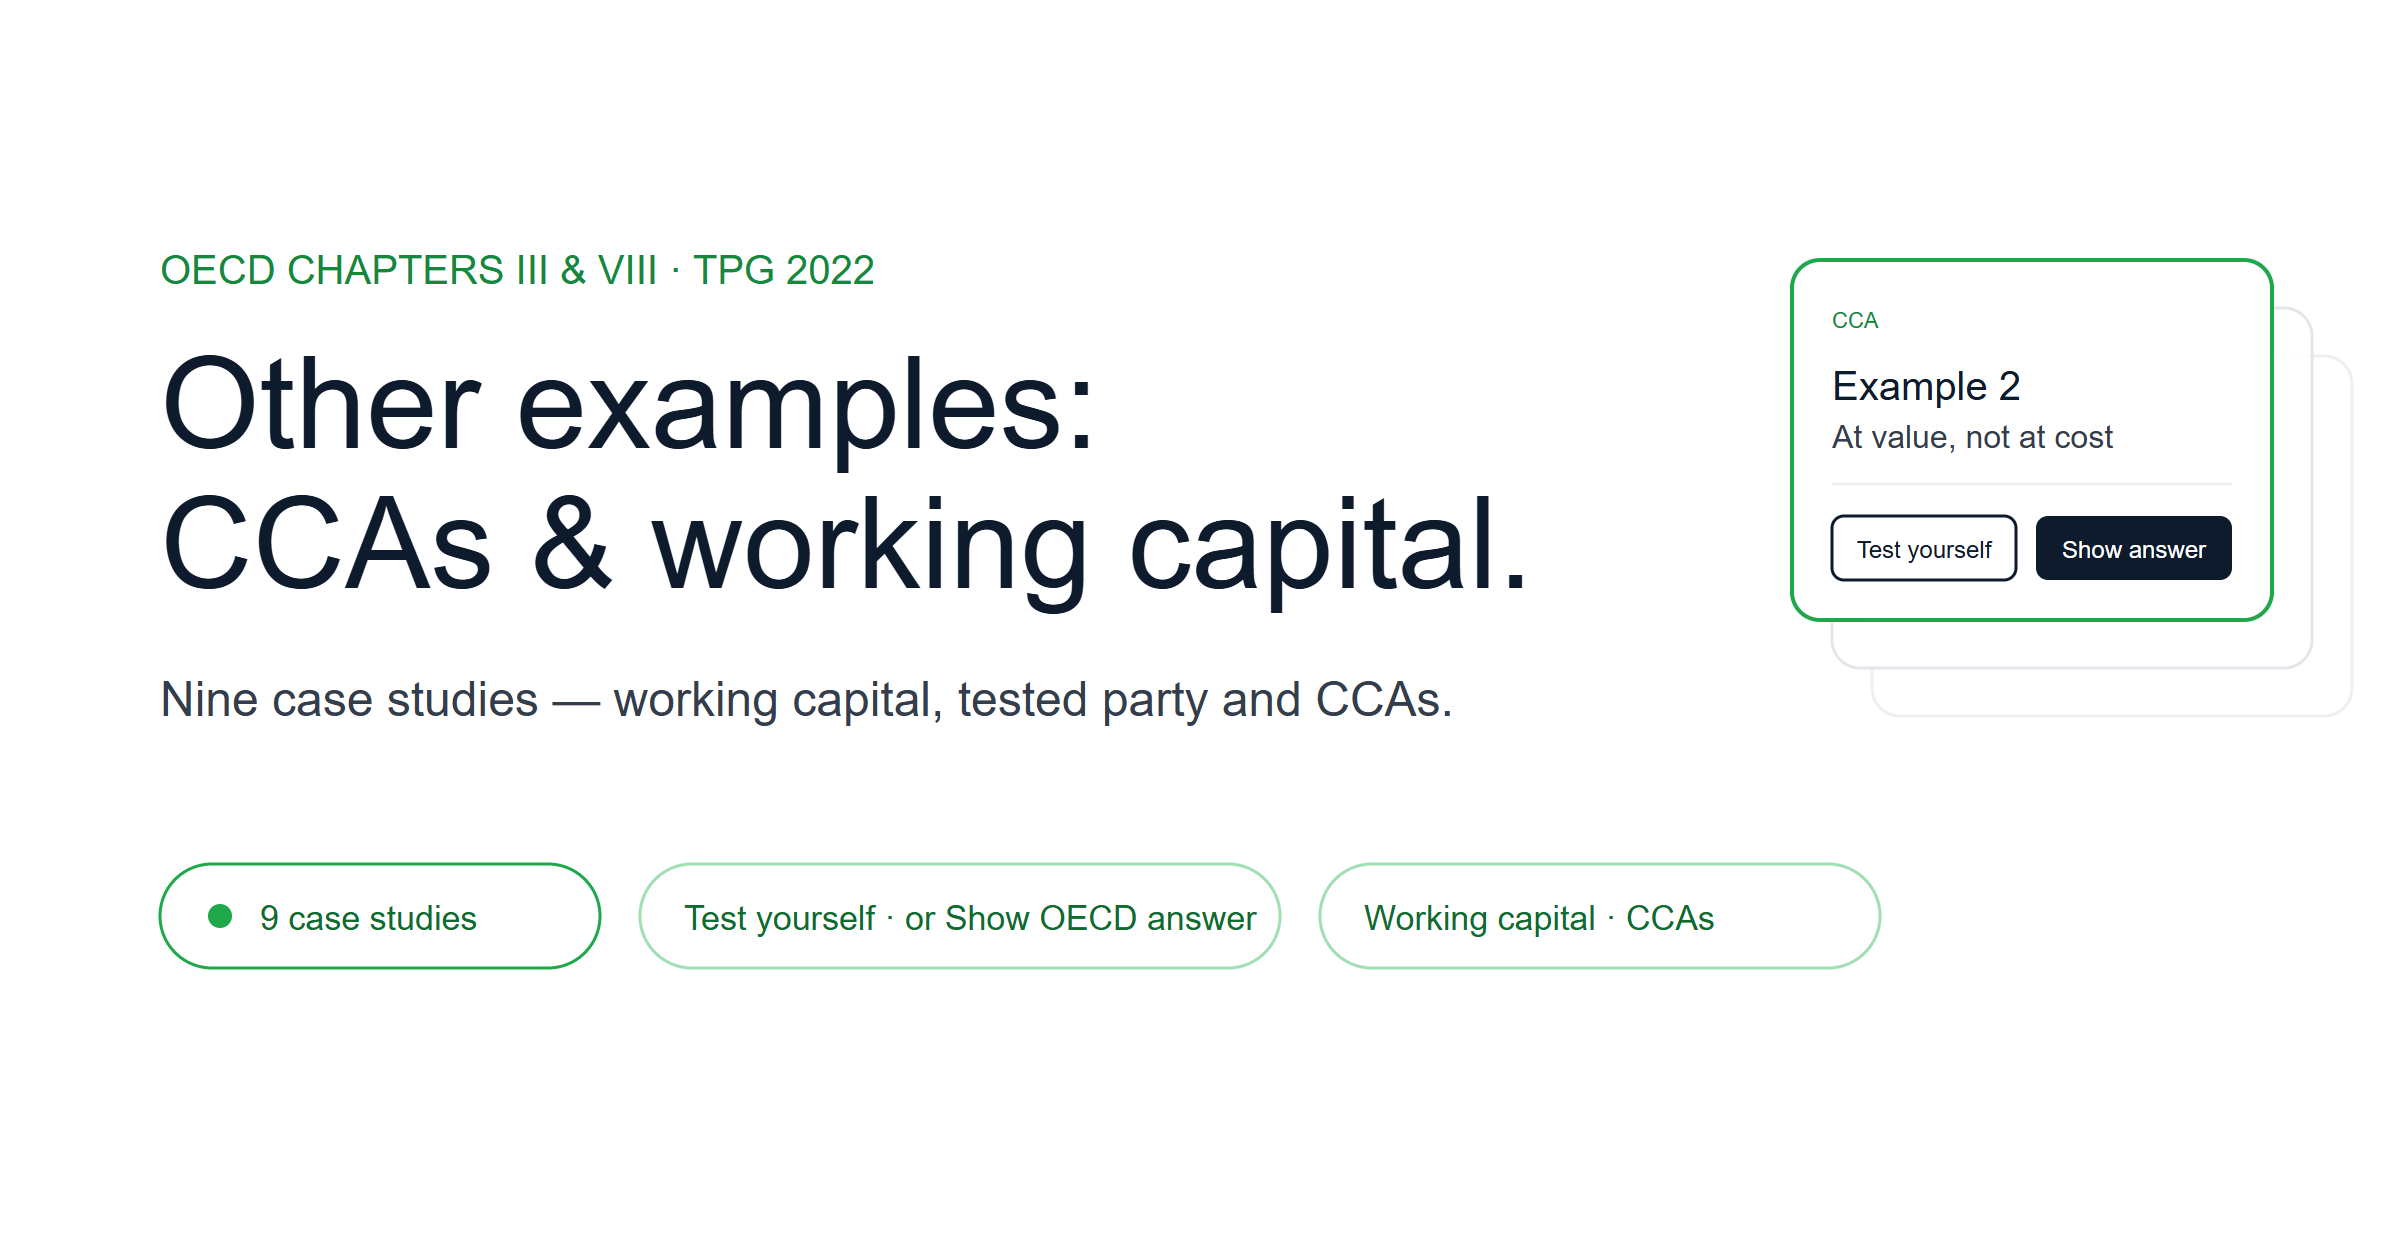
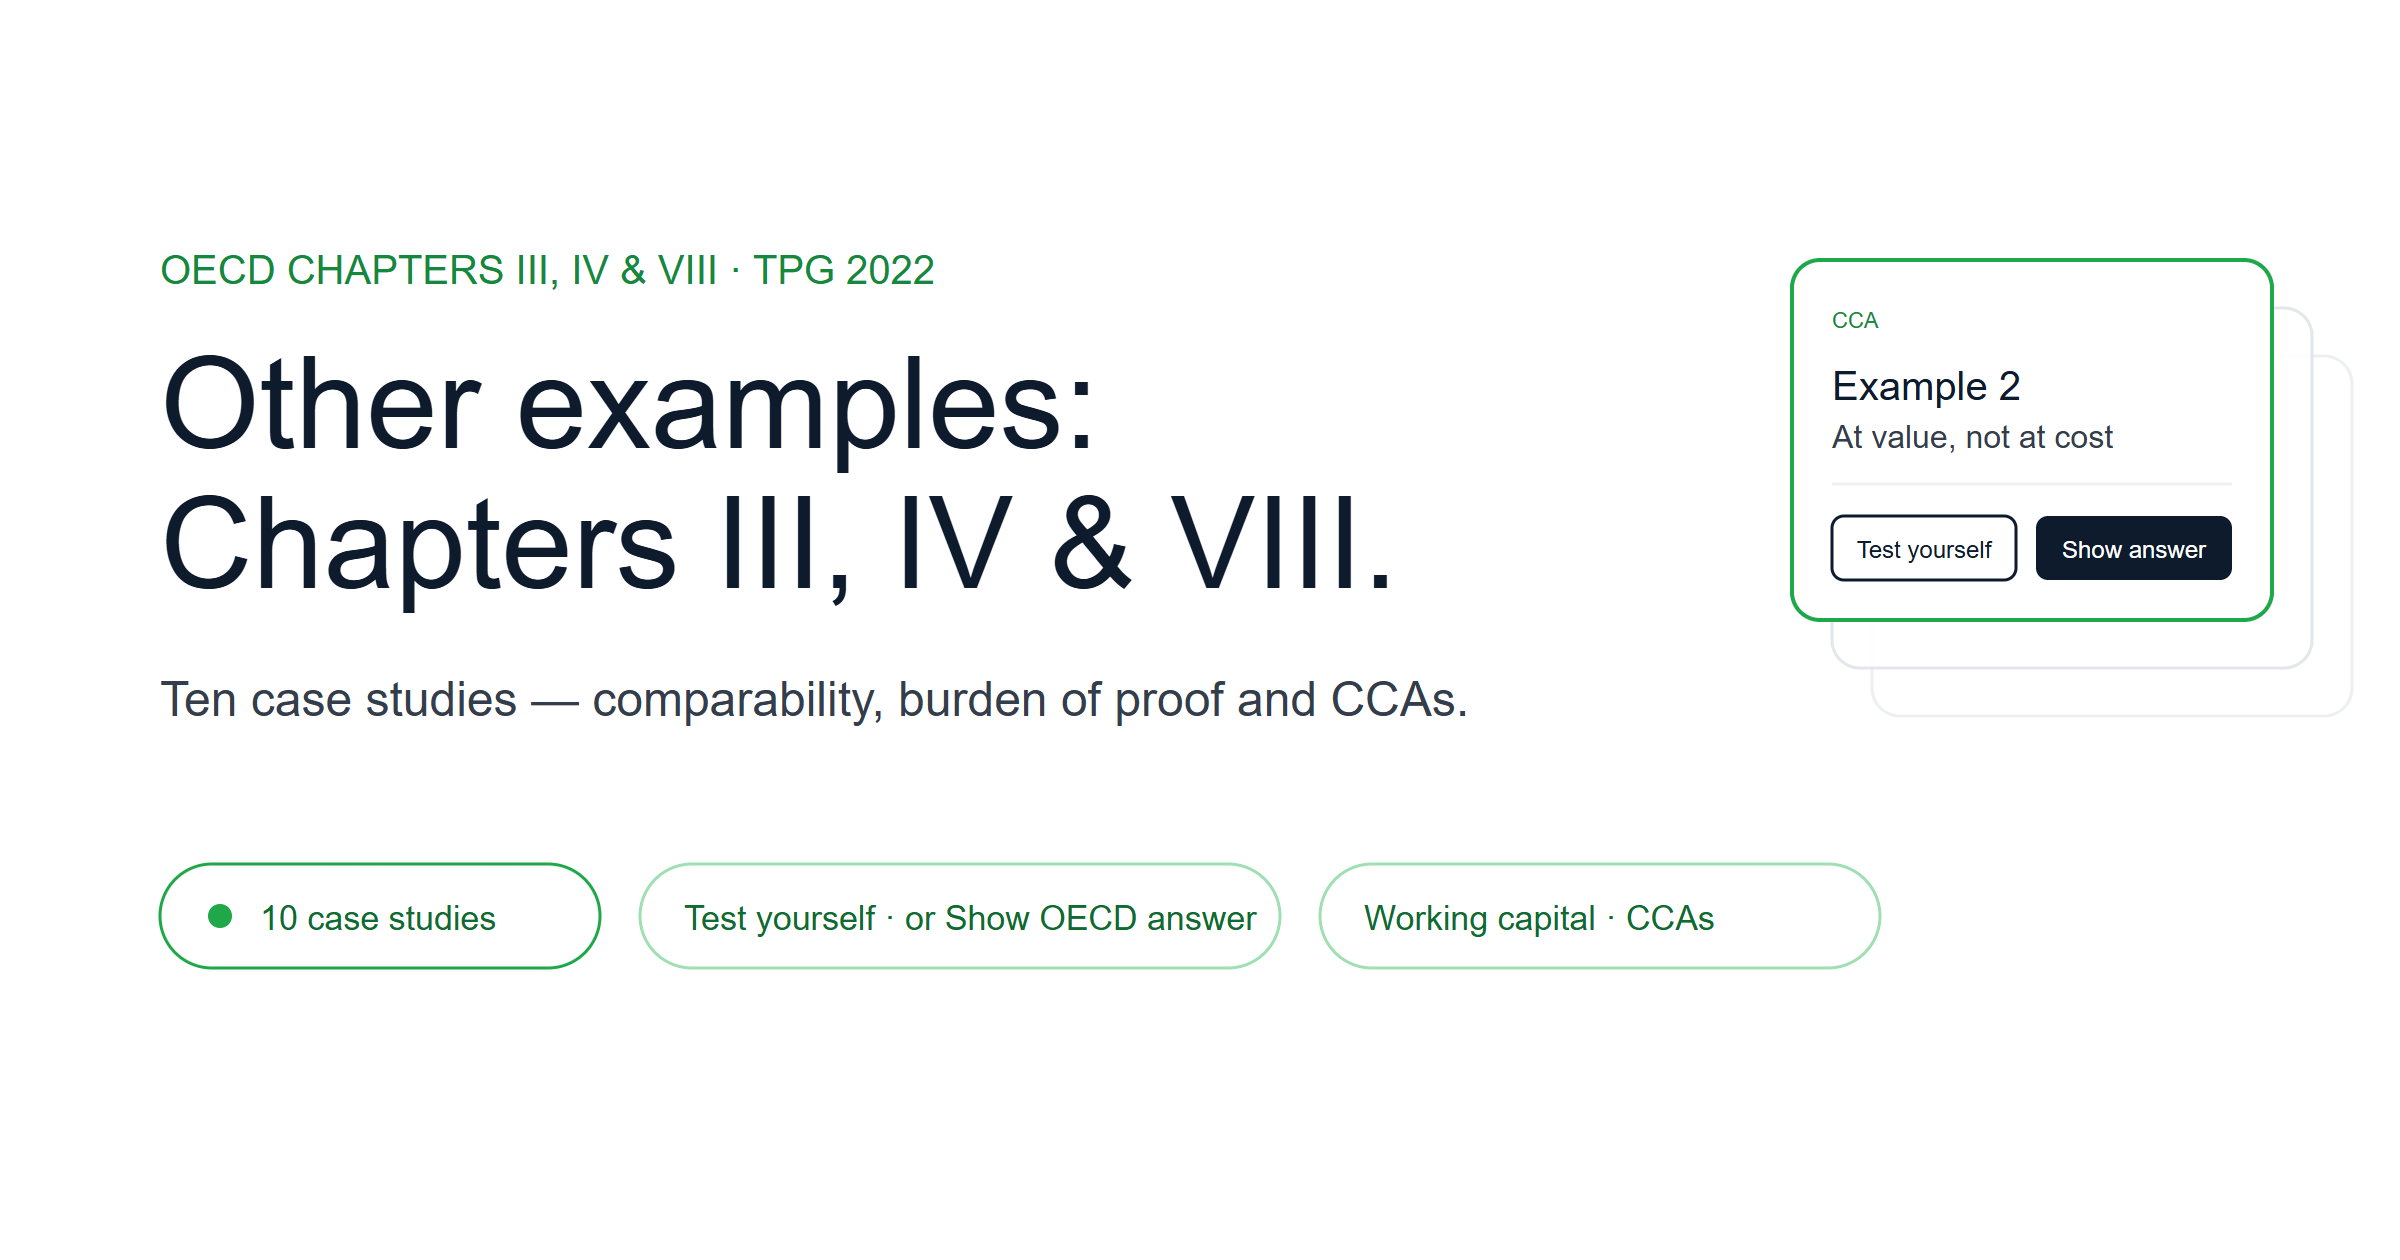
Page text and share images: counts for three examples added after review (Ch II 2.111, Ch IX 9.110, Ch IV 4.14-4.15)

diff --git a/OtherExamples/index.html b/OtherExamples/index.html
@@ -3,20 +3,20 @@
 <head>
 <meta charset="UTF-8">
 <meta name="viewport" content="width=device-width, initial-scale=1">
-<title>Other OECD examples — working capital, tested party + cost contribution arrangements | inRange</title>
-<meta name="description" content="A walkthrough of nine case studies from Chapters III and VIII of the OECD TP Guidelines (2022) and their Annexes: a working capital adjustment, the choice of tested party, and cost contribution arrangements.">
-<meta property="og:title" content="Other OECD examples — working capital, tested party + cost contribution arrangements">
-<meta property="og:description" content="Nine case studies from Chapters III and VIII of the OECD TP Guidelines (2022): working capital, tested party and CCAs.">
+<title>Other OECD examples — Chapters III, IV and VIII | inRange</title>
+<meta name="description" content="A walkthrough of ten case studies from Chapters III, IV and VIII of the OECD TP Guidelines (2022) and their Annexes: a working capital adjustment, the choice of tested party, the burden of proof, and cost contribution arrangements.">
+<meta property="og:title" content="Other OECD examples — Chapters III, IV and VIII">
+<meta property="og:description" content="Ten case studies from Chapters III, IV and VIII of the OECD TP Guidelines (2022): working capital, tested party, burden of proof and CCAs.">
 <meta property="og:type" content="website">
 <meta property="og:url" content="https://www.inrange.nl/OtherExamples/">
 <meta property="og:image" content="https://www.inrange.nl/OtherExamples/og-image.png">
 <meta property="og:image:width" content="2400">
 <meta property="og:image:height" content="1260">
-<meta property="og:image:alt" content="Other OECD examples — Interactive walkthrough of comparability and cost-contribution-arrangement examples. An inRange page.">
+<meta property="og:image:alt" content="Other OECD examples — Interactive walkthrough of examples from Chapters III, IV and VIII. An inRange page.">
 <meta name="twitter:card" content="summary_large_image">
 <meta name="twitter:image" content="https://www.inrange.nl/OtherExamples/og-image.png">
-<meta name="twitter:title" content="Other OECD examples — working capital, tested party + cost contribution arrangements">
-<meta name="twitter:description" content="Nine case studies from Chapters III and VIII of the OECD TP Guidelines (2022): working capital, tested party and CCAs.">
+<meta name="twitter:title" content="Other OECD examples — Chapters III, IV and VIII">
+<meta name="twitter:description" content="Ten case studies from Chapters III, IV and VIII of the OECD TP Guidelines (2022): working capital, tested party, burden of proof and CCAs.">
 <link rel="stylesheet" href="../colors_and_type.css">
 <link rel="preconnect" href="https://fonts.googleapis.com">
 <link rel="preconnect" href="https://fonts.gstatic.com" crossorigin>
@@ -684,9 +684,9 @@ a.toc__group-label:hover{color:var(--brand-green-700)}
     </details>
 
     <section class="hero" id="intro">
-      <span class="eyebrow">OECD Chapters III &amp; VIII · TPG 2022</span>
+      <span class="eyebrow">OECD Chapters III, IV &amp; VIII · TPG 2022</span>
       <h1>Other examples.</h1>
-      <p class="lead">A walkthrough of nine case studies from Chapter III (a working capital adjustment and the choice of tested party) and Chapter VIII (cost contribution arrangements) of the OECD Transfer Pricing Guidelines (2022 edition), including their Annexes.</p>
+      <p class="lead">A walkthrough of ten case studies from Chapter III (a working capital adjustment and the choice of tested party), Chapter IV (the burden of proof) and Chapter VIII (cost contribution arrangements) of the OECD Transfer Pricing Guidelines (2022 edition), including their Annexes.</p>
 
       <div class="disclaimer">
         <strong>Teaching summary.</strong> This walkthrough is a paraphrase of the OECD examples for learning purposes. For any binding interpretation, consult the OECD Transfer Pricing Guidelines themselves.
@@ -748,7 +748,7 @@ a.toc__group-label:hover{color:var(--brand-green-700)}
 </a>
 
     <footer class="page-footer">
-      <p>This walkthrough is based on Chapter III and its Annex (Example of a working capital adjustment) and on Chapter VIII and its Annex (Examples to illustrate the guidance on cost contribution arrangements) of the OECD Transfer Pricing Guidelines for Multinational Enterprises and Tax Administrations (2022 edition).<br>Source: <a href="https://www.oecd.org/en/publications/oecd-transfer-pricing-guidelines-for-multinational-enterprises-and-tax-administrations-2022_0e655865-en.html" target="_blank" rel="noreferrer">OECD Transfer Pricing Guidelines (2022)</a>.</p>
+      <p>This walkthrough is based on Chapter III and its Annex (Example of a working capital adjustment), on Chapter IV, and on Chapter VIII and its Annex (Examples to illustrate the guidance on cost contribution arrangements) of the OECD Transfer Pricing Guidelines for Multinational Enterprises and Tax Administrations (2022 edition).<br>Source: <a href="https://www.oecd.org/en/publications/oecd-transfer-pricing-guidelines-for-multinational-enterprises-and-tax-administrations-2022_0e655865-en.html" target="_blank" rel="noreferrer">OECD Transfer Pricing Guidelines (2022)</a>.</p>
     </footer>
   </main>
 </div>
@@ -1418,8 +1418,8 @@ a.toc__group-label:hover{color:var(--brand-green-700)}
   function setupShare() {
     const toast = document.getElementById("toast");
     const SHARE_URL = "https://www.inrange.nl/OtherExamples";
-    const SHARE_TITLE = "Other OECD examples — working capital, tested party + cost contribution arrangements";
-    const SHARE_TEXT = "Nine case studies from Chapters III and VIII of the OECD TP Guidelines (2022): working capital, tested party and cost contribution arrangements.";
+    const SHARE_TITLE = "Other OECD examples — Chapters III, IV and VIII";
+    const SHARE_TEXT = "Ten case studies from Chapters III, IV and VIII of the OECD TP Guidelines (2022): working capital, tested party, burden of proof and cost contribution arrangements.";
 
     function showToast(message) {
       if (!toast) return;

diff --git a/Chapter9/index.html b/Chapter9/index.html
@@ -3,10 +3,10 @@
 <head>
 <meta charset="UTF-8">
 <meta name="viewport" content="width=device-width, initial-scale=1">
-<title>OECD Chapter IX — business restructurings: 16 examples | inRange</title>
-<meta name="description" content="An interactive walkthrough of 16 examples on Chapter IX of the OECD Transfer Pricing Guidelines (2022): eight worked examples from the text and eight inRange illustrations distilled from it, covering conversions, indemnification, inventory and brand transfers, outsourcing and location savings.">
-<meta property="og:title" content="OECD Chapter IX — business restructurings: 16 examples">
-<meta property="og:description" content="16 case studies on Chapter IX of the OECD TP Guidelines (2022): eight OECD examples and eight inRange illustrations.">
+<title>OECD Chapter IX — business restructurings: 17 examples | inRange</title>
+<meta name="description" content="An interactive walkthrough of 17 examples on Chapter IX of the OECD Transfer Pricing Guidelines (2022): nine worked examples from the text and eight inRange illustrations distilled from it, covering conversions, indemnification, inventory and brand transfers, outsourcing and location savings.">
+<meta property="og:title" content="OECD Chapter IX — business restructurings: 17 examples">
+<meta property="og:description" content="17 case studies on Chapter IX of the OECD TP Guidelines (2022): nine OECD examples and eight inRange illustrations.">
 <meta property="og:type" content="website">
 <meta property="og:url" content="https://www.inrange.nl/Chapter9/">
 <meta property="og:image" content="https://www.inrange.nl/Chapter9/og-image.png">
@@ -15,8 +15,8 @@
 <meta property="og:image:alt" content="OECD Chapter IX — Interactive walkthrough of business-restructuring examples. An inRange page.">
 <meta name="twitter:card" content="summary_large_image">
 <meta name="twitter:image" content="https://www.inrange.nl/Chapter9/og-image.png">
-<meta name="twitter:title" content="OECD Chapter IX — business restructurings: 16 examples">
-<meta name="twitter:description" content="16 case studies on Chapter IX of the OECD TP Guidelines (2022): eight OECD examples and eight inRange illustrations.">
+<meta name="twitter:title" content="OECD Chapter IX — business restructurings: 17 examples">
+<meta name="twitter:description" content="17 case studies on Chapter IX of the OECD TP Guidelines (2022): nine OECD examples and eight inRange illustrations.">
 <link rel="stylesheet" href="../colors_and_type.css">
 <link rel="preconnect" href="https://fonts.googleapis.com">
 <link rel="preconnect" href="https://fonts.gstatic.com" crossorigin>
@@ -697,7 +697,7 @@ a.toc__group-label:hover{color:var(--brand-green-700)}
     <section class="hero" id="intro">
       <span class="eyebrow">OECD Chapter IX · TPG 2022</span>
       <h1>Business restructurings.</h1>
-      <p class="lead">A walkthrough of 16 examples on Chapter IX of the OECD Transfer Pricing Guidelines (2022 edition). Eight are worked examples set out in the text of the chapter, marked “OECD example”. Eight are inRange illustrations distilled from its prose and anchored to specific paragraphs, marked “inRange illustration”.</p>
+      <p class="lead">A walkthrough of 17 examples on Chapter IX of the OECD Transfer Pricing Guidelines (2022 edition). Nine are worked examples set out in the text of the chapter, marked “OECD example”. Eight are inRange illustrations distilled from its prose and anchored to specific paragraphs, marked “inRange illustration”.</p>
 
       <div class="disclaimer">
         <strong>Teaching summary.</strong> These examples are authorial paraphrases that distil specific paragraphs of Chapter IX for learning purposes. For any binding interpretation, consult the OECD Transfer Pricing Guidelines themselves.
@@ -1451,8 +1451,8 @@ a.toc__group-label:hover{color:var(--brand-green-700)}
   function setupShare() {
     const toast = document.getElementById("toast");
     const SHARE_URL = "https://www.inrange.nl/Chapter9";
-    const SHARE_TITLE = "OECD Chapter IX — Business restructurings: 16 examples";
-    const SHARE_TEXT = "16 case studies on Chapter IX of the OECD Transfer Pricing Guidelines (2022): recognition, risk reallocation, indemnification, location savings and more.";
+    const SHARE_TITLE = "OECD Chapter IX — Business restructurings: 17 examples";
+    const SHARE_TEXT = "17 case studies on Chapter IX of the OECD Transfer Pricing Guidelines (2022): recognition, risk reallocation, indemnification, location savings and more.";
 
     function showToast(message) {
       if (!toast) return;

diff --git a/Chapter2/index.html b/Chapter2/index.html
@@ -3,10 +3,10 @@
 <head>
 <meta charset="UTF-8">
 <meta name="viewport" content="width=device-width, initial-scale=1">
-<title>OECD Chapter II — transfer pricing methods: 14 examples | inRange</title>
-<meta name="description" content="An interactive walkthrough of 14 examples from Chapter II of the OECD Transfer Pricing Guidelines (2022) and its Annex I: the CUP, resale price, cost plus and transactional net margin methods, and gross versus net profit indicators.">
-<meta property="og:title" content="OECD Chapter II — transfer pricing methods: 14 examples">
-<meta property="og:description" content="14 examples from Chapter II of the OECD TP Guidelines (2022): CUP, resale price, cost plus, TNMM and gross versus net margins.">
+<title>OECD Chapter II — transfer pricing methods: 15 examples | inRange</title>
+<meta name="description" content="An interactive walkthrough of 15 examples from Chapter II of the OECD Transfer Pricing Guidelines (2022) and its Annex I: the CUP, resale price, cost plus and transactional net margin methods, and gross versus net profit indicators.">
+<meta property="og:title" content="OECD Chapter II — transfer pricing methods: 15 examples">
+<meta property="og:description" content="15 examples from Chapter II of the OECD TP Guidelines (2022): CUP, resale price, cost plus, TNMM and gross versus net margins.">
 <meta property="og:type" content="website">
 <meta property="og:url" content="https://www.inrange.nl/Chapter2/">
 <meta property="og:image" content="https://www.inrange.nl/Chapter2/og-image.png">
@@ -15,8 +15,8 @@
 <meta property="og:image:alt" content="OECD Chapter II — Interactive walkthrough of the transfer pricing method examples. An inRange page.">
 <meta name="twitter:card" content="summary_large_image">
 <meta name="twitter:image" content="https://www.inrange.nl/Chapter2/og-image.png">
-<meta name="twitter:title" content="OECD Chapter II — transfer pricing methods: 14 examples">
-<meta name="twitter:description" content="14 examples from Chapter II of the OECD TP Guidelines (2022): CUP, resale price, cost plus, TNMM and gross versus net margins.">
+<meta name="twitter:title" content="OECD Chapter II — transfer pricing methods: 15 examples">
+<meta name="twitter:description" content="15 examples from Chapter II of the OECD TP Guidelines (2022): CUP, resale price, cost plus, TNMM and gross versus net margins.">
 <link rel="stylesheet" href="../colors_and_type.css">
 <link rel="preconnect" href="https://fonts.googleapis.com">
 <link rel="preconnect" href="https://fonts.gstatic.com" crossorigin>
@@ -1418,8 +1418,8 @@ a.toc__group-label:hover{color:var(--brand-green-700)}
   function setupShare() {
     const toast = document.getElementById("toast");
     const SHARE_URL = "https://www.inrange.nl/Chapter2";
-    const SHARE_TITLE = "OECD Chapter II — Transfer pricing methods: 14 examples";
-    const SHARE_TEXT = "An interactive walkthrough of 14 examples from Chapter II of the OECD Transfer Pricing Guidelines (2022): CUP, resale price, cost plus and TNMM.";
+    const SHARE_TITLE = "OECD Chapter II — Transfer pricing methods: 15 examples";
+    const SHARE_TEXT = "An interactive walkthrough of 15 examples from Chapter II of the OECD Transfer Pricing Guidelines (2022): CUP, resale price, cost plus and TNMM.";
 
     function showToast(message) {
       if (!toast) return;
